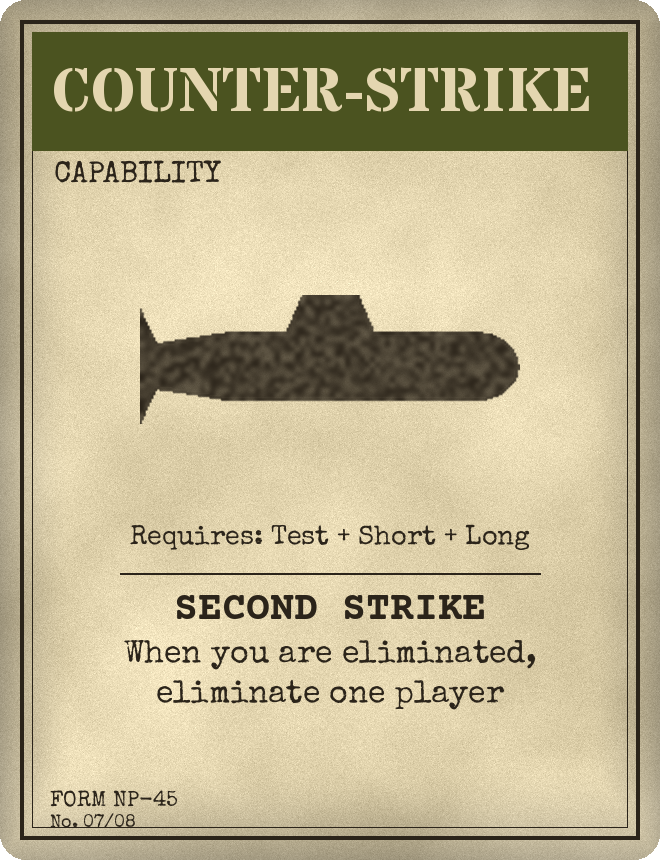
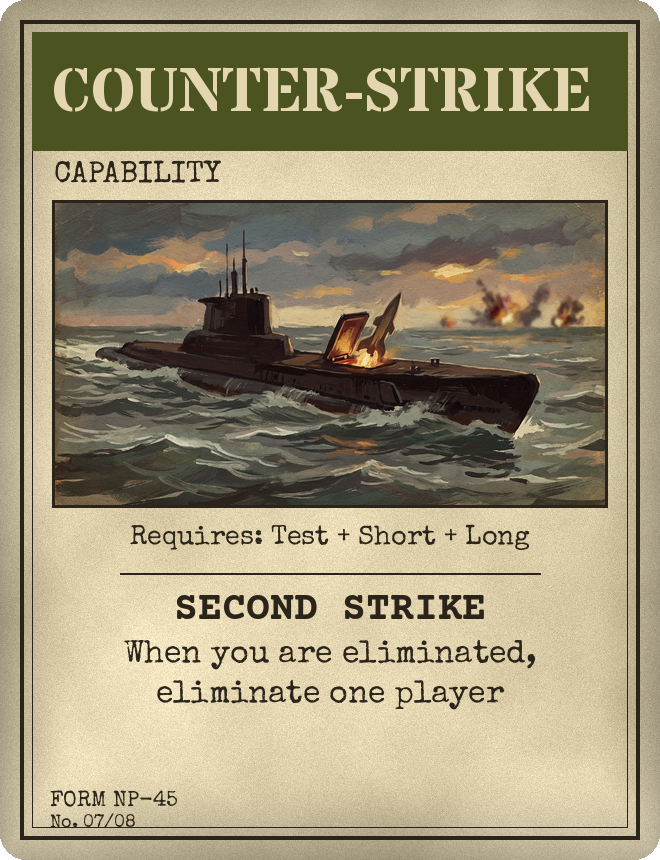
Painted card art from Meshy; "powers" instead of "AI powers"
- tools/meshy_card_art.py paints one wide illustration per card (styles:
  painted, poster, woodcut, blueprint) into assets/ww2/art/<style>/.
- tools/ww2_cards.py --art <style> sets the picture into the card's window
  (letterbox bars trimmed, paper grain through it, ink frame), keeping the
  printed title and rules. The cards now use the painted set; the sources
  are kept (Godot ignores the folder, so they stay out of the web build).
- Menu and player-count text say "powers", not "AI powers".

Claude-Session: https://claude.ai/code/session_01SuLDMKDUEF5Nydzbng6Eun

Changed region(s): [[0.0606, 0.2116, 0.9394, 0.6047]]

diff --git a/tools/meshy_card_art.py b/tools/meshy_card_art.py
@@ -1,0 +1,125 @@
+#!/usr/bin/env python3
+"""Paint fresh illustrations for the cards with Meshy's text-to-image API.
+
+    python3 tools/meshy_card_art.py --style poster testing    # one card in one style (a sample)
+    python3 tools/meshy_card_art.py --style poster            # every card in that style
+    python3 tools/meshy_card_art.py --style poster --force long
+    python3 tools/ww2_cards.py --art poster                   # build the cards with those pictures
+
+Key lookup: --key-file PATH, else $MESHY_API_KEY, else .secrets/meshy (git-ignored), else ~/.secrets/meshy.
+Output: assets/ww2/art/<style>/<card>.png, a wide picture (16:9). Only the picture comes from Meshy:
+tools/ww2_cards.py sets it into the card's window and prints the title and rules itself, so the text
+stays crisp. Each image costs Meshy credits (nano-banana-pro: about 9).
+"""
+import json, os, sys, tempfile, time, urllib.error, urllib.request
+
+ROOT = os.path.dirname(os.path.dirname(os.path.abspath(__file__)))
+OUT = os.path.join(ROOT, "assets", "ww2", "art")
+API = "https://api.meshy.ai/openapi/v1/text-to-image"
+
+COMMON = ("A single clear subject with a strong, simple silhouette that still reads when the picture is "
+          "shown very small. Late-1940s atomic-age setting. Fictional: no flags, no national insignia or "
+          "emblems, no real people. No text, no letters, no numbers, no watermark. Full-bleed wide landscape "
+          "picture filling the whole frame edge to edge: no border, no letterbox bars, no picture-in-picture.")
+STYLES = {
+    "poster": "1940s wartime propaganda poster art: flat screen-printed gouache, a limited palette of olive drab, "
+              "mustard yellow, brick red and cream, bold simplified shapes, dramatic diagonal composition, "
+              "visible paper grain and slight print misregistration.",
+    "woodcut": "Bold black-ink woodcut / linocut print on warm cream paper: heavy carved lines, strong "
+               "black-and-white contrast with a single spot colour of dull red, rough hand-printed texture.",
+    "painted": "Vintage 1950s magazine cover illustration, painted in gouache and oil: dramatic cinematic "
+               "lighting, muted desaturated colours with warm highlights, confident painterly brushwork.",
+    "blueprint": "Technical engineering cutaway drawing: fine white and pale-cyan line work on deep Prussian-blue "
+                 "blueprint paper, cross-hatching, construction lines, abstract unreadable annotation marks.",
+}
+SUBJECTS = {
+    "uranium": "A rough chunk of uranium ore resting in a lead specimen tray, faint eerie glow, a Geiger counter beside it.",
+    "refinement": "A long row of tall enrichment centrifuge cylinders in a vast industrial hall, pipes overhead.",
+    "warhead": "A fat 1940s atomic bomb casing with box fins, on a wheeled trolley in a dim hangar.",
+    "testing": "An atomic test: a towering mushroom cloud rising over a flat desert, a lone steel observation tower in the foreground.",
+    "short": "A four-engine heavy bomber seen from below as it opens its bomb bay doors, searchlights in the night sky.",
+    "long": "A tall rocket lifting off from a launch gantry, a column of fire and billowing exhaust.",
+    "counter": "A submarine surfacing in a stormy sea at night, a missile hatch open on its deck.",
+    "super": "A war-room globe of the world ringed by arcing missile trajectories, a dark command bunker behind it.",
+}
+
+
+def find_key(args):
+    if "--key-file" in args:
+        i = args.index("--key-file")
+        path = args[i + 1]
+        del args[i:i + 2]
+        return open(os.path.expanduser(path)).read().strip()
+    if os.environ.get("MESHY_API_KEY"):
+        return os.environ["MESHY_API_KEY"].strip()
+    for p in (os.path.join(ROOT, ".secrets", "meshy"), os.path.expanduser("~/.secrets/meshy")):
+        if os.path.exists(p):
+            return open(p).read().strip()
+    sys.exit("No Meshy key: use --key-file, $MESHY_API_KEY or .secrets/meshy")
+
+
+def req(key, method, url, body=None):
+    h = {"Authorization": "Bearer " + key, "Content-Type": "application/json"}
+    for attempt in range(12):
+        r = urllib.request.Request(url, data=json.dumps(body).encode() if body is not None else None, headers=h, method=method)
+        try:
+            with urllib.request.urlopen(r, timeout=120) as f:
+                return json.load(f)
+        except urllib.error.HTTPError as e:
+            if e.code != 429 or attempt == 11:
+                print("HTTP", e.code, e.read()[:300])
+                raise
+            time.sleep(float(e.headers.get("Retry-After") or 10))
+
+
+def opt(args, name, default):
+    if name in args:
+        i = args.index(name)
+        v = args[i + 1]
+        del args[i:i + 2]
+        return v
+    return default
+
+
+def main():
+    args = sys.argv[1:]
+    key = find_key(args)
+    style = opt(args, "--style", "poster")
+    model = opt(args, "--model", "nano-banana-pro")
+    force = "--force" in args
+    if force:
+        args.remove("--force")
+    if style not in STYLES:
+        sys.exit("styles: " + ", ".join(STYLES))
+    out = os.path.join(OUT, style)
+    os.makedirs(out, exist_ok=True)
+    jobs = {}
+    for name in args or list(SUBJECTS):          # start them all, then collect
+        path = os.path.join(out, name + ".png")
+        if os.path.exists(path) and not force:
+            print(name, "exists")
+            continue
+        body = {"ai_model": model, "prompt": SUBJECTS[name] + " " + STYLES[style] + " " + COMMON, "aspect_ratio": "16:9"}
+        jobs[name] = req(key, "POST", API, body)["result"]
+    from PIL import Image
+    for name, tid in jobs.items():
+        while True:
+            t = req(key, "GET", "%s/%s" % (API, tid))
+            if t["status"] in ("SUCCEEDED", "FAILED", "CANCELED"):
+                break
+            time.sleep(4)
+        if t["status"] != "SUCCEEDED" or not t.get("image_urls"):
+            print(name, "FAILED", t.get("task_error"), flush=True)
+            continue
+        tmp = os.path.join(tempfile.gettempdir(), "meshy_art_%s_%s.dl" % (style, name))      # outside the project
+        urllib.request.urlretrieve(t["image_urls"][0], tmp)
+        im = Image.open(tmp).convert("RGB")
+        im.thumbnail((1280, 1280), Image.LANCZOS)
+        im.save(os.path.join(out, name + ".png"))
+        os.remove(tmp)
+        print(name, "ok", "credits", t.get("consumed_credits"), flush=True)
+    print("done - now: python3 tools/ww2_cards.py --art", style)
+
+
+if __name__ == "__main__":
+    main()

diff --git a/tools/ww2_cards.py b/tools/ww2_cards.py
@@ -2,6 +2,8 @@
 """Generate the WWII-style card faces, card back and table texture for Nuclear Poker.
 
     python3 tools/ww2_cards.py            (run from the project folder; needs Pillow + numpy)
+    python3 tools/ww2_cards.py --art poster   use the painted pictures in assets/ww2/art/poster/
+                                              (from tools/meshy_card_art.py) instead of the ink icons
 
 Reads the icon shapes from the print-and-play card art in assets/*.png and redraws every card as a
 1940s field-manual / dossier card: aged paper, olive-drab header, stencil title, typewriter rules text
@@ -122,6 +124,60 @@ def stamp(text, rng, color=STAMP_RED, size=44, angle=-14):
     return col, m.point(lambda v: int(v * 0.82))
 
 
+ART = None      # a style folder under assets/ww2/art/, or None for the ink icons
+ART_BOX = (52, 200, W - 52, 508)      # the picture window: left, top, right, bottom
+
+
+def trim_bars(im):
+    """Cut away flat dark or light bars round a picture (letterboxing the image model sometimes adds)."""
+    a = np.asarray(im).astype(float).mean(-1)
+    def flat(line):
+        return line.std() < 8.0 and (line.mean() < 40 or line.mean() > 200)
+    t, b, l, r = 0, a.shape[0], 0, a.shape[1]
+    while t < b - 10 and flat(a[t, l:r]):
+        t += 1
+    while b > t + 10 and flat(a[b - 1, l:r]):
+        b -= 1
+    while l < r - 10 and flat(a[t:b, l]):
+        l += 1
+    while r > l + 10 and flat(a[t:b, r - 1]):
+        r -= 1
+    return im.crop((l, t, r, b))
+
+
+def art_window(card, key, rng):
+    """Set a painted picture into the card like a printed plate: cropped to the window, a touch of the
+    paper's grain through it, a thin ink frame. Returns False when there is no picture for this card."""
+    path = os.path.join(OUT, "art", ART, key + ".png") if ART else None
+    if not path or not os.path.exists(path):
+        return False
+    x0, y0, x1, y1 = ART_BOX
+    bw, bh = x1 - x0, y1 - y0
+    im = trim_bars(Image.open(path).convert("RGB"))
+    sc = max(bw / im.width, bh / im.height)
+    im = im.resize((int(im.width * sc + 0.5), int(im.height * sc + 0.5)), Image.LANCZOS)
+    ox, oy = (im.width - bw) // 2, (im.height - bh) // 2
+    im = im.crop((ox, oy, ox + bw, oy + bh))
+    grain = card.crop((x0, y0, x1, y1)).convert("RGB")
+    a = np.asarray(im).astype(float)
+    g = np.asarray(grain).astype(float) / np.array(PAPER, float)
+    a = a * (0.9 + 0.1 * g)      # printed on the same paper
+    card.paste(Image.fromarray(np.clip(a, 0, 255).astype(np.uint8)), (x0, y0))
+    d = ImageDraw.Draw(card)
+    d.rectangle([x0, y0, x1 - 1, y1 - 1], outline=INK, width=3)
+    return True
+
+
+def _icon(card, ic, rng):
+    box_w, box_h = 380, 290
+    sc = min(box_w / ic.width, box_h / ic.height)
+    ic = ic.resize((max(1, int(ic.width * sc)), max(1, int(ic.height * sc))), Image.LANCZOS)
+    n = noise(ic.width, ic.height, 5, rng)
+    ic = Image.fromarray((np.asarray(ic) * (0.72 + 0.28 * n)).astype(np.uint8))      # worn ink
+    inkc = Image.new("RGB", ic.size, INK)
+    card.paste(inkc, ((W - ic.width) // 2, 215 + (box_h - ic.height) // 2), ic)
+
+
 def make_card(key, idx):
     rng = np.random.default_rng(1945 + idx)
     prng = random.Random(1945 + idx)
@@ -141,15 +197,12 @@ def make_card(key, idx):
         size -= 2
     d.text((52, 46 + (70 - size) // 2), title, font=STENCIL(size), fill=PAPER)
     d.text((54, 160), kind, font=TYPE(30), fill=INK)
-    # icon
-    ic = icon_mask(key)
-    box_w, box_h = 380, 290
-    sc = min(box_w / ic.width, box_h / ic.height)
-    ic = ic.resize((max(1, int(ic.width * sc)), max(1, int(ic.height * sc))), Image.LANCZOS)
-    n = noise(ic.width, ic.height, 5, rng)
-    ic = Image.fromarray((np.asarray(ic) * (0.72 + 0.28 * n)).astype(np.uint8))      # worn ink
-    inkc = Image.new("RGB", ic.size, INK)
-    card.paste(inkc, ((W - ic.width) // 2, 215 + (box_h - ic.height) // 2), ic)
+    if art_window(card, key, rng):
+        ic = None
+    else:
+        ic = icon_mask(key)
+    if ic is not None:
+        _icon(card, ic, rng)
     # rules text
     y = 525
     if req:
@@ -228,6 +281,10 @@ def make_table():
 
 
 def main():
+    global ART
+    import sys
+    if "--art" in sys.argv:
+        ART = sys.argv[sys.argv.index("--art") + 1]
     os.makedirs(OUT, exist_ok=True)
     for i, k in enumerate(CARDS):
         make_card(k, i).save(os.path.join(OUT, k + ".png"))
